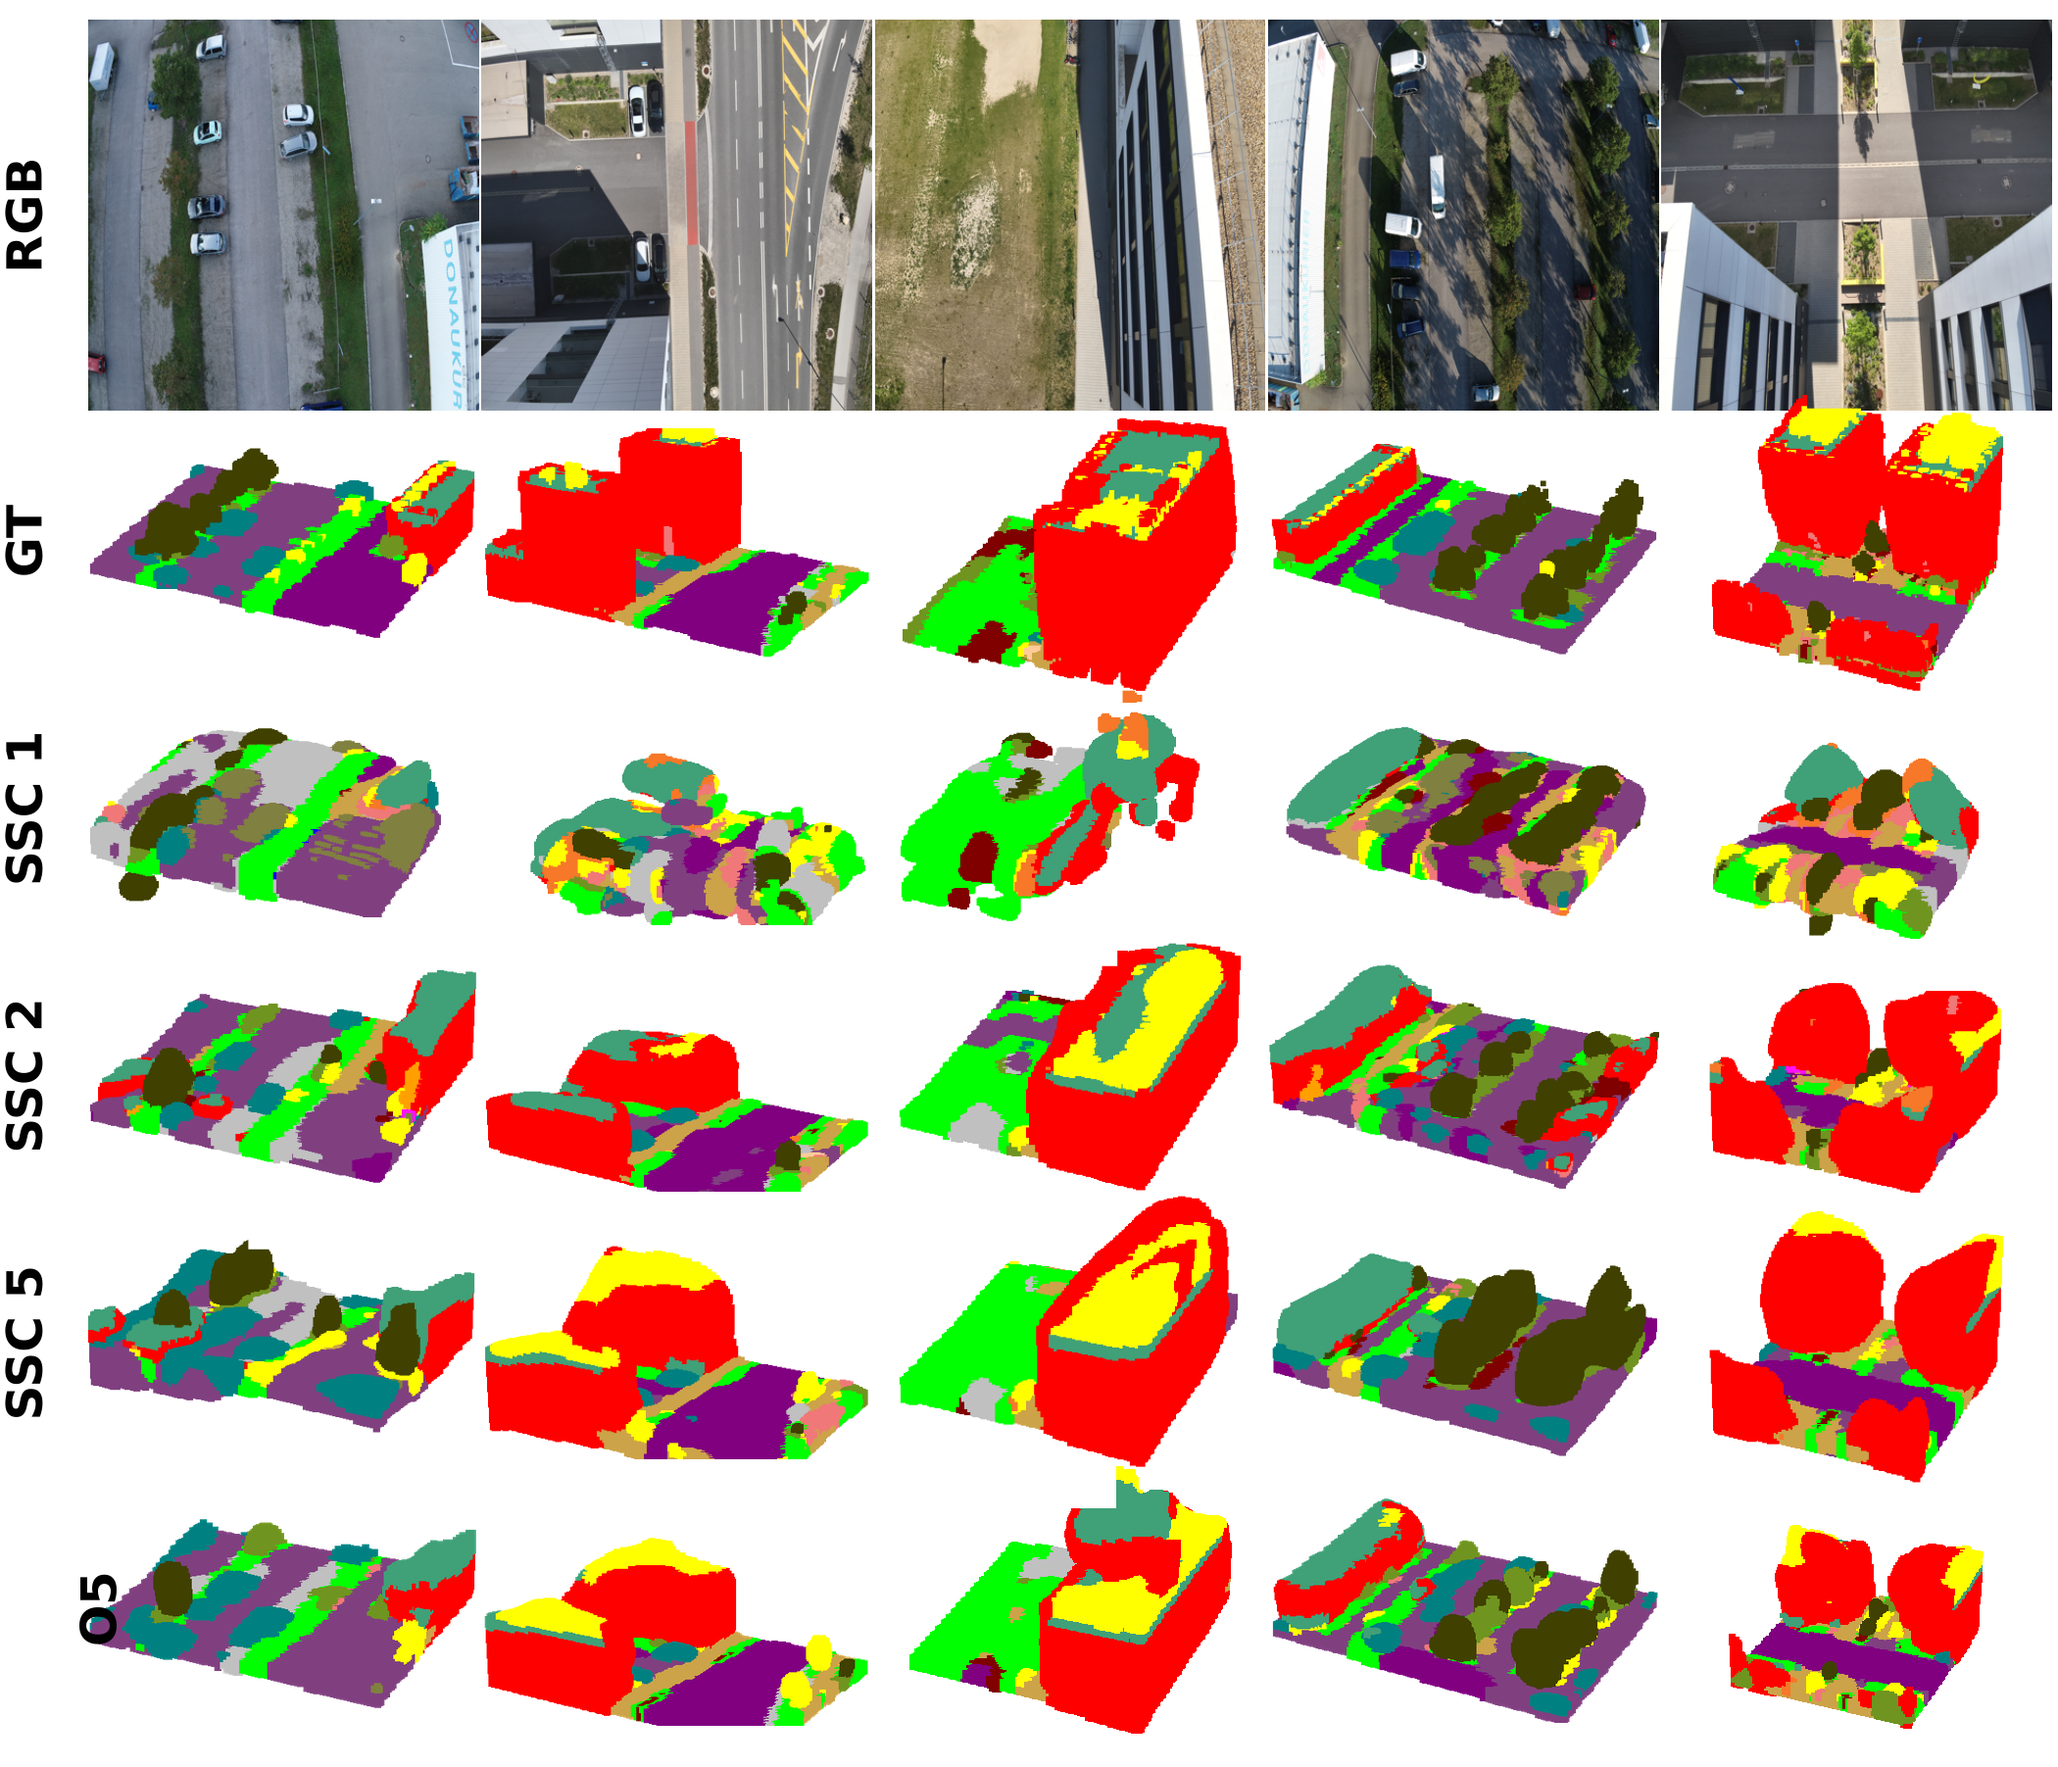
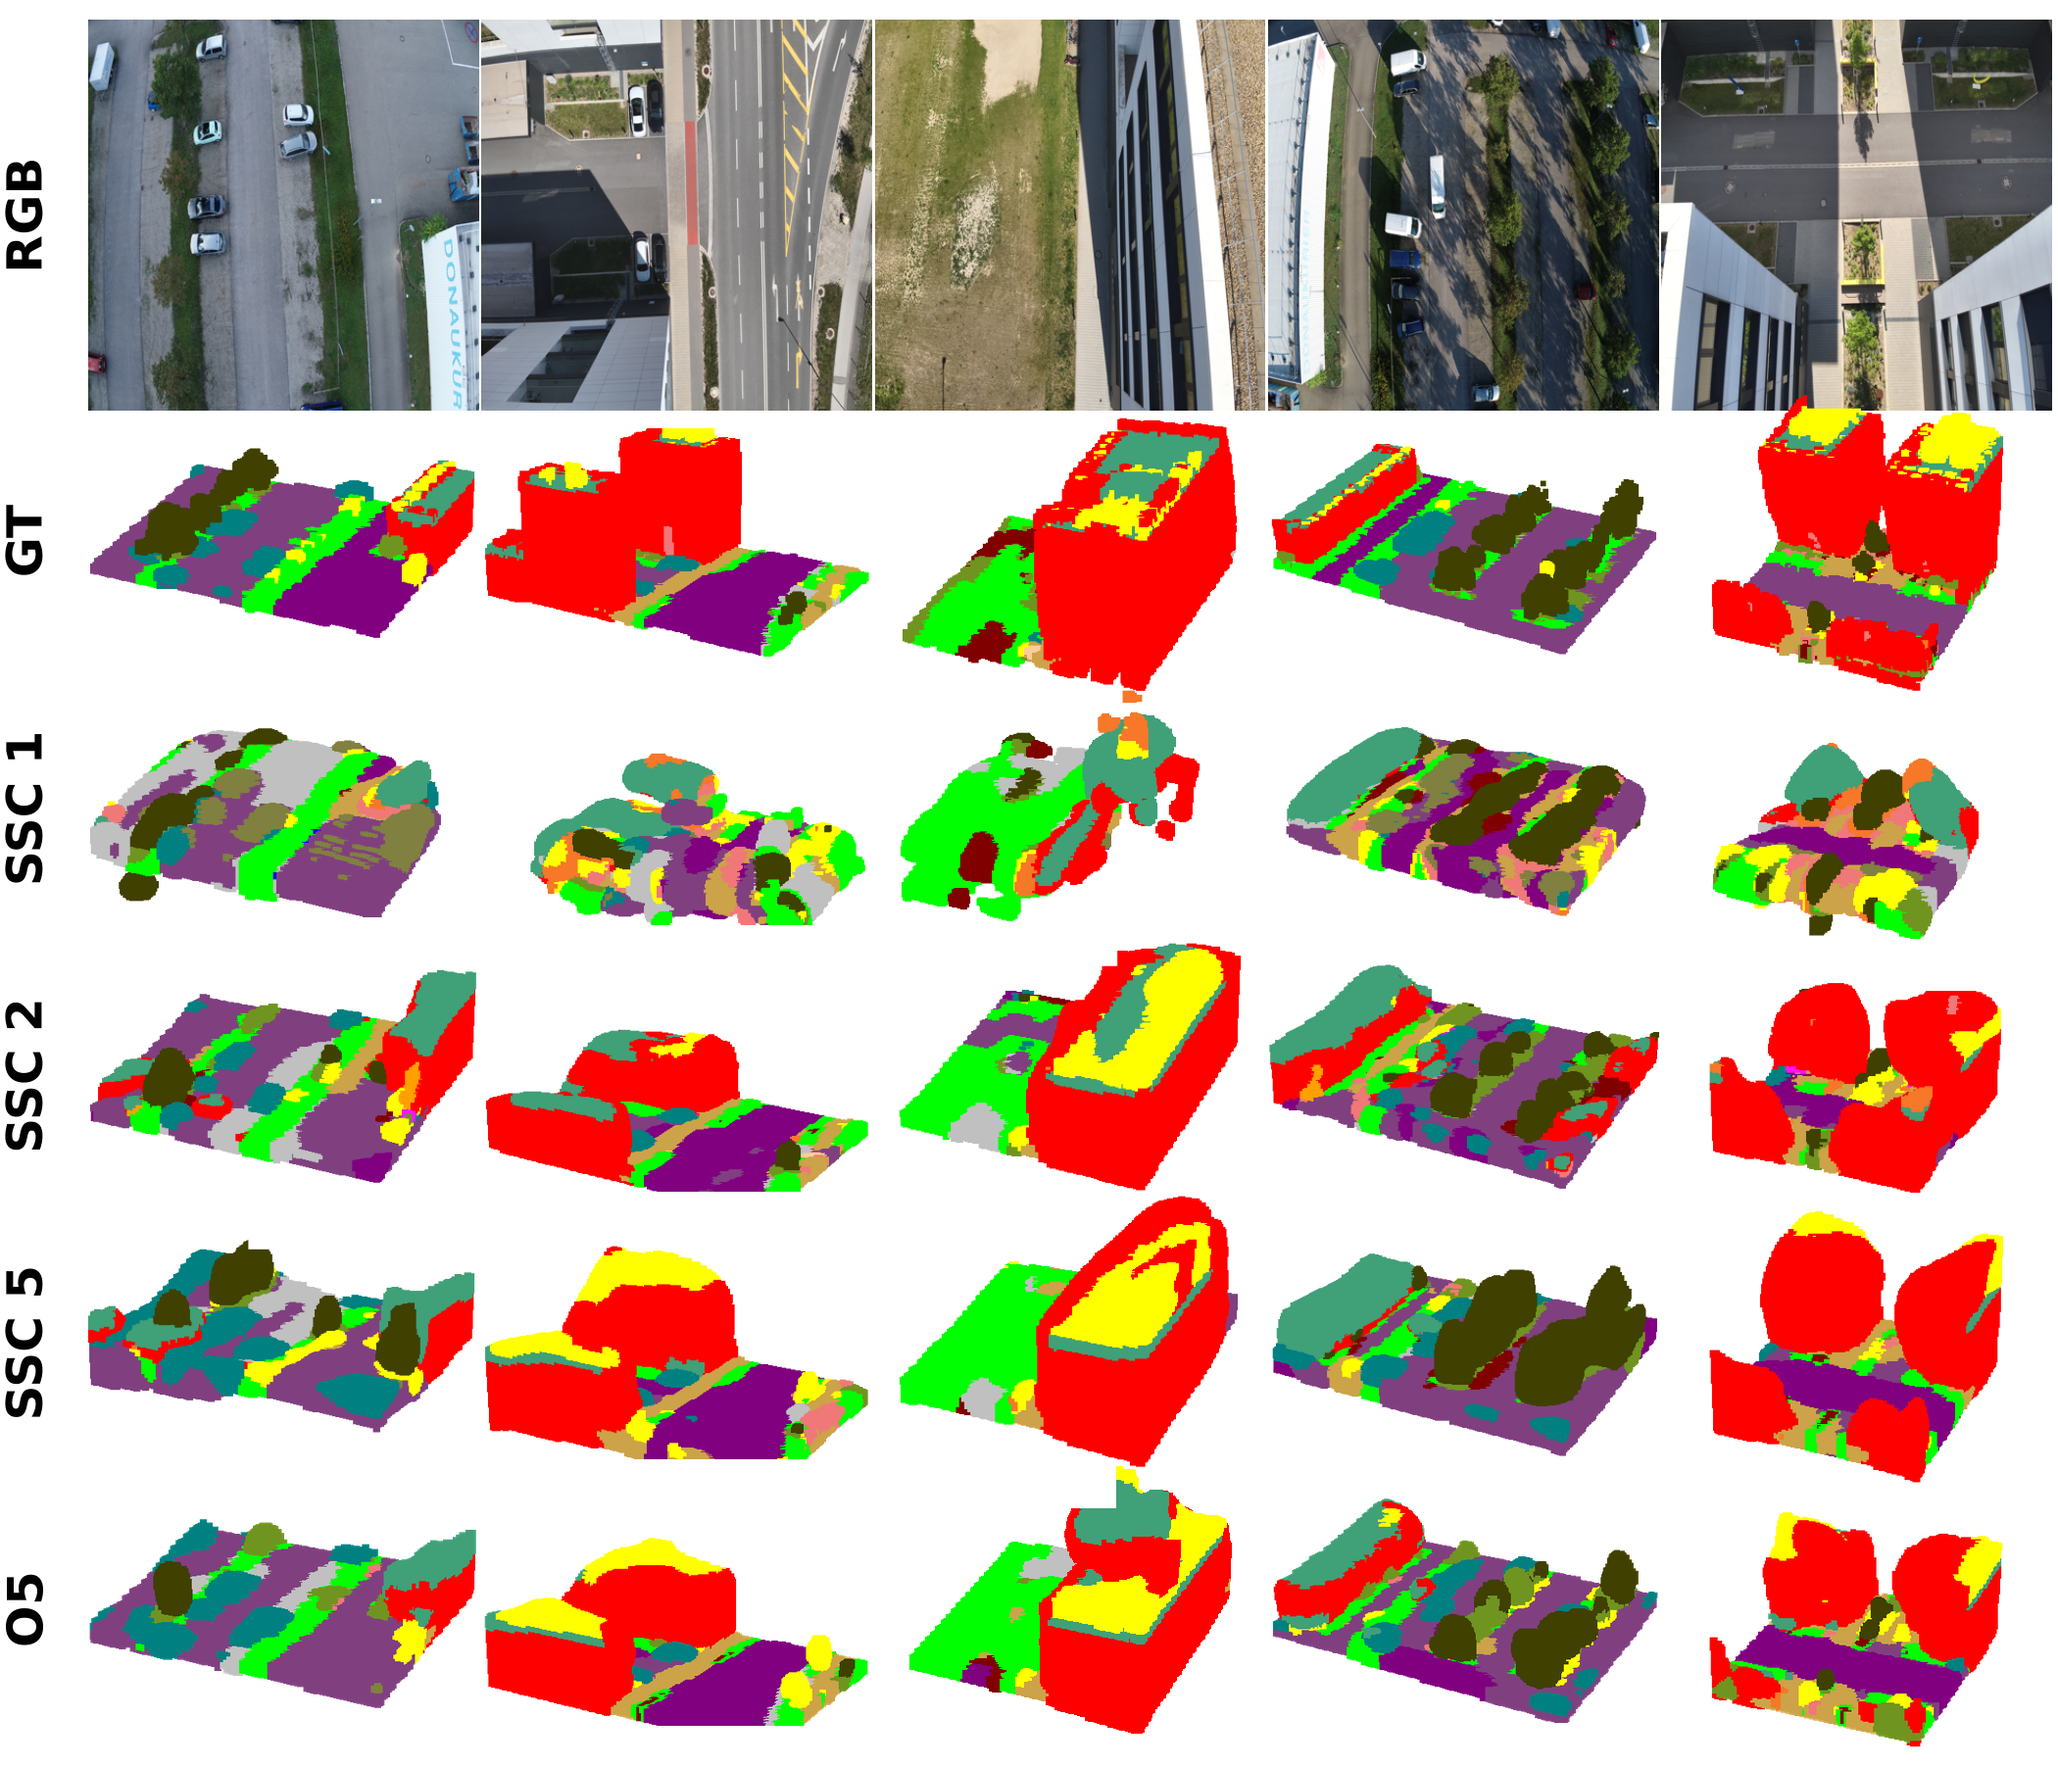
docs: align and scale O5 qualitative row

Changed region(s): [[0.8048, 0.8386, 0.9905, 0.9939], [0.0, 0.8697, 0.0619, 0.9318]]

diff --git a/scripts/append_o5_to_occufly_multiscene_grid.py b/scripts/append_o5_to_occufly_multiscene_grid.py
@@ -21,6 +21,7 @@ UIDS = [
     "scene_08_40_000245",
     "scene_09_30_000233",
 ]
+PRESENTATION_ZOOM = {"scene_09_30_000233": 1.15}
 
 
 def content_crop(gt: Image.Image, o5: Image.Image) -> Image.Image:
@@ -70,23 +71,33 @@ def main() -> None:
         root = args.panel_root / uid
         panel = content_crop(Image.open(root / "gt.png"), Image.open(root / "o5.png"))
         panel.thumbnail((column_width, row_height), Image.Resampling.LANCZOS)
+        zoom = PRESENTATION_ZOOM.get(uid, 1.0)
+        if zoom != 1.0:
+            panel = panel.resize(
+                (round(panel.width * zoom), round(panel.height * zoom)),
+                Image.Resampling.LANCZOS,
+            )
         x = left + (column_width - panel.width) // 2
         y = row_top + (row_height - panel.height) // 2
         canvas.alpha_composite(panel, (x, y))
 
     font_path = Path("/usr/share/fonts/truetype/dejavu/DejaVuSans-Bold.ttf")
     font = ImageFont.truetype(str(font_path), 50)
-    label = Image.new("RGBA", (120, 180), (255, 255, 255, 0))
-    draw = ImageDraw.Draw(label)
-    box = draw.textbbox((0, 0), "O5", font=font)
-    draw.text(
-        ((label.width - (box[2] - box[0])) / 2, (label.height - (box[3] - box[1])) / 2 - box[1]),
-        "O5",
-        fill="black",
-        font=font,
+    padding = 4
+    box = font.getbbox("O5")
+    label = Image.new(
+        "RGBA",
+        (box[2] - box[0] + 2 * padding, box[3] - box[1] + 2 * padding),
+        (255, 255, 255, 0),
     )
+    draw = ImageDraw.Draw(label)
+    draw.text((padding - box[0], padding - box[1]), "O5", fill="black", font=font)
     label = label.rotate(90, expand=True, resample=Image.Resampling.BICUBIC)
-    canvas.alpha_composite(label, (10, row_top + (row_height - label.height) // 2))
+    label_center_x = 24.5
+    canvas.alpha_composite(
+        label,
+        (round(label_center_x - label.width / 2), row_top + (row_height - label.height) // 2),
+    )
 
     args.output.parent.mkdir(parents=True, exist_ok=True)
     canvas.save(args.output, dpi=(600, 600))
